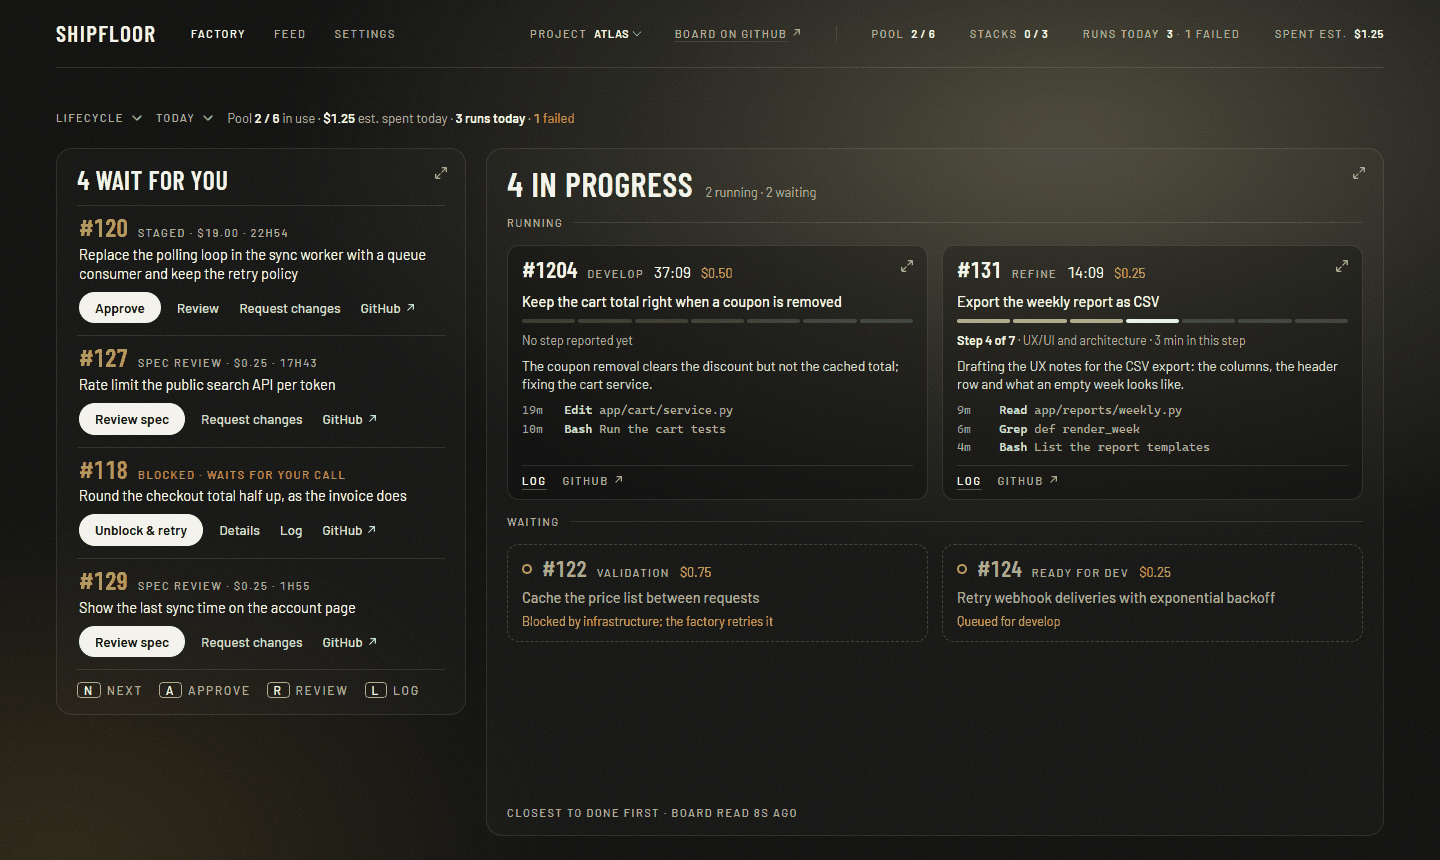
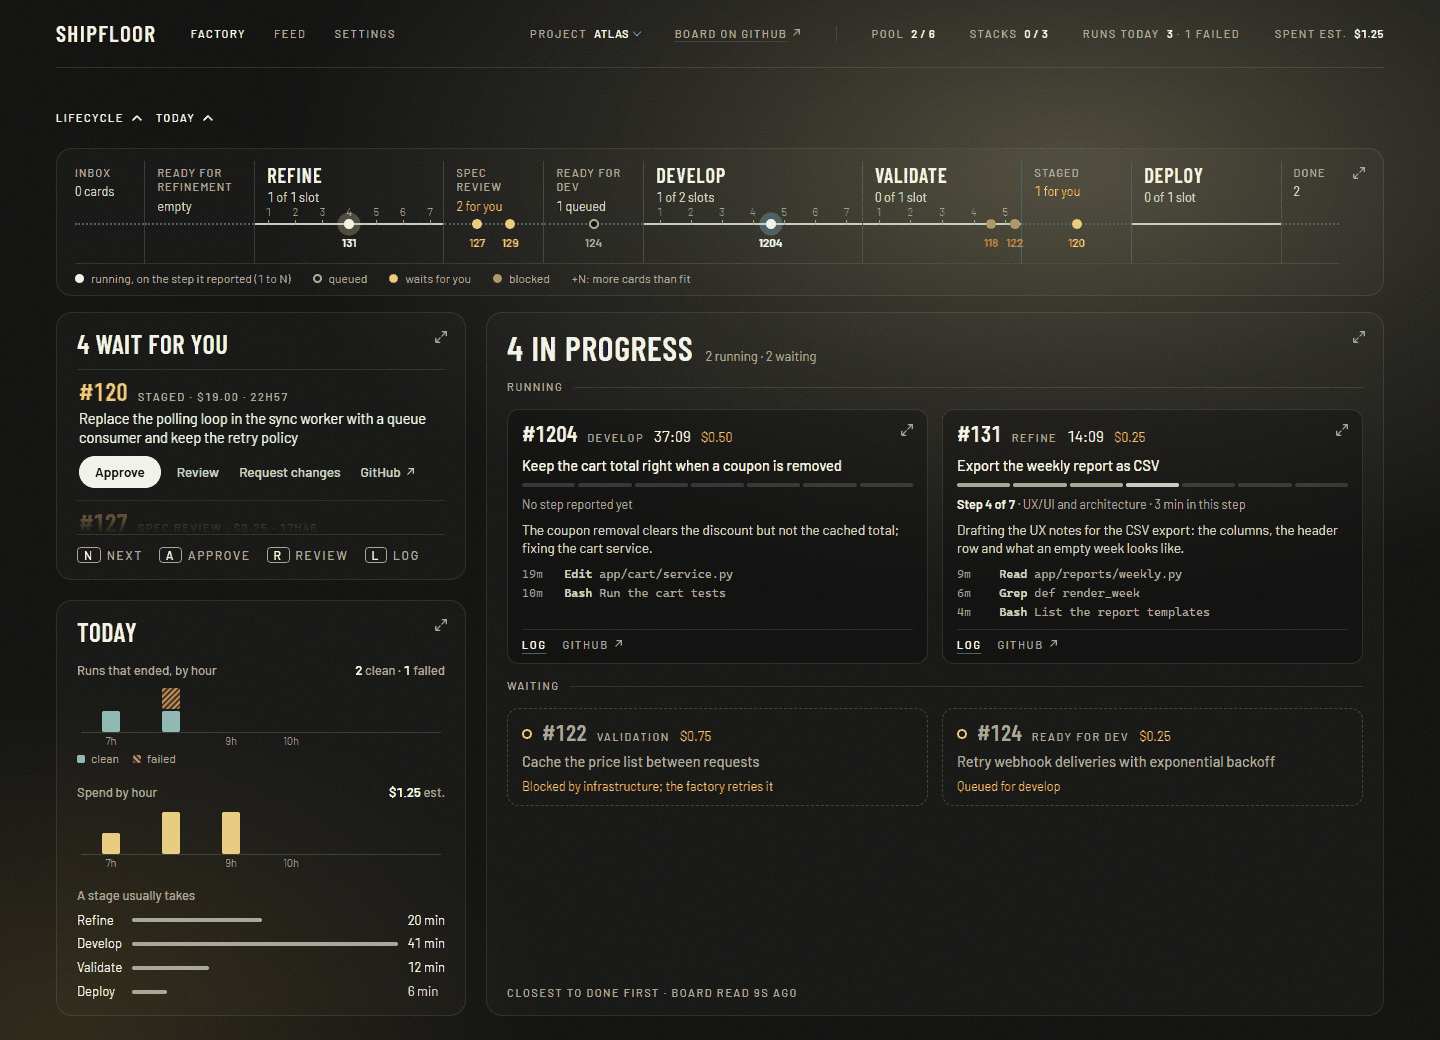
docs(readme): the screenshot shows the lifecycle line and Today open

diff --git a/README.md b/README.md
@@ -2,7 +2,7 @@
 
 **A software factory for Claude Code.** Write a GitHub issue, approve twice, and it ships.
 
-![The Shipfloor dashboard: four cards wait for the owner and four are in progress, each with its stage, time and cost](docs/img/dashboard.png)
+![The Shipfloor dashboard: the lifecycle line with every card on its stage, four cards that wait for the owner, four in progress with their step and cost, and today's runs and spend](docs/img/dashboard.png)
 
 Shipfloor turns the issues on a GitHub board into merged pull requests. Agents write the spec, the failing tests, the code and the review. You make two decisions per card: is this the spec you want built, and does this pull request ship.
 
